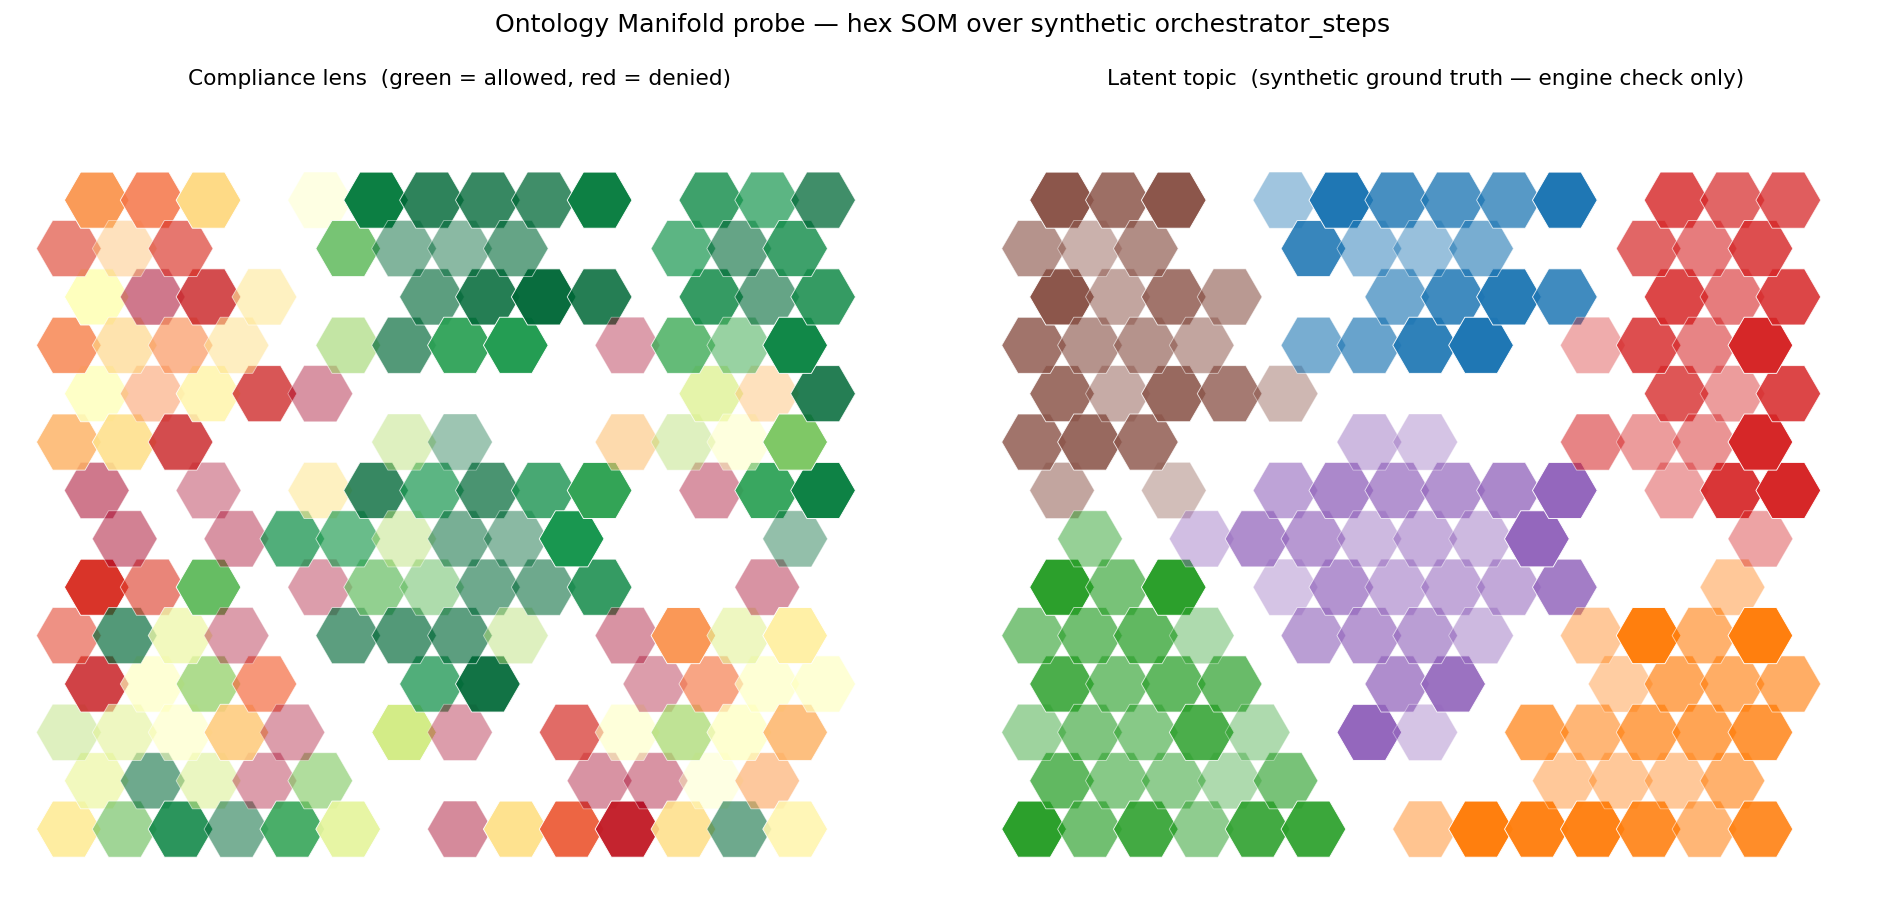
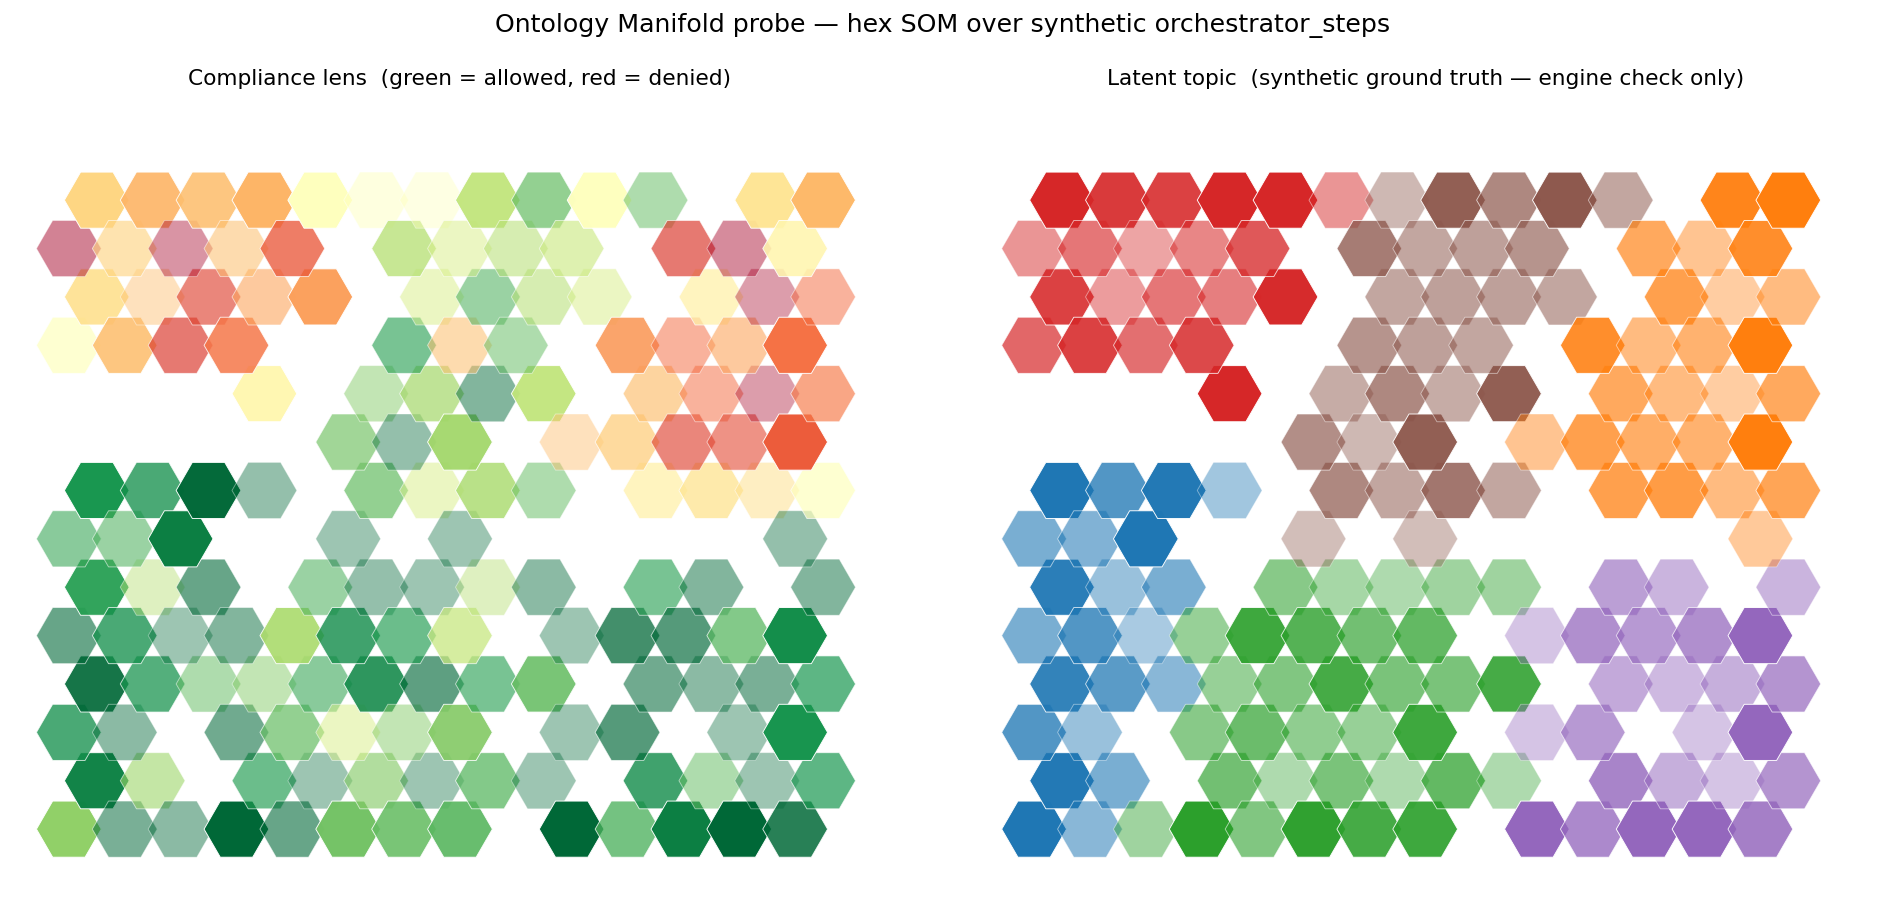
fix(manifold): emit detail panel fields for Semantic Manifold UI

diff --git a/ontology_manifold_probe.py b/ontology_manifold_probe.py
@@ -564,10 +564,15 @@ def export_manifold(df, bmu, side, path, source="synthetic", hex_px=40.0):
 
     steps = [dict(stepId=sid, cellId=cid, governanceAllowed=bool(ga),
                   agentRole=ar, workflowId=wf, modelId=mid,
-                  createdAt=pd.Timestamp(ts).isoformat())
-             for sid, cid, ga, ar, wf, mid, ts in zip(
+                  createdAt=pd.Timestamp(ts).isoformat(),
+                  inputText=it if pd.notna(it) else "",
+                  toolCalls=[{"name": t} for t in (tc if isinstance(tc, list) else [])],
+                  governanceLogs=[{"policy_name": g.get("policy_name"), "allowed": (g.get("result") == "allowed" if "result" in g else g.get("allowed", False))} for g in (gl if isinstance(gl, list) else [])]
+                  )
+             for sid, cid, ga, ar, wf, mid, ts, it, tc, gl in zip(
                  d["step_id"], d["_cell"], d["governance_allowed"], d["agent_role"],
-                 d["workflow_id"], d["model_id"], d["created_at"])]
+                 d["workflow_id"], d["model_id"], d["created_at"],
+                 d.get("input_text", [None]*len(d)), d.get("tool_calls", [None]*len(d)), d.get("governance_logs", [None]*len(d)))]
 
     edges = []
     if "parent_decision_id" in d:

diff --git a/src/aml/cloud/manifold.py b/src/aml/cloud/manifold.py
@@ -177,8 +177,8 @@ def serialize_manifold(df: pd.DataFrame, bmu: np.ndarray, side: int, source: str
             modelId=row["model_id"] if pd.notna(row["model_id"]) else "unknown",
             createdAt=pd.Timestamp(row["created_at"]).isoformat(),
             inputText=row.get("input_text", "") or "",
-            toolCalls=row.get("tool_calls", []) or [],
-            governanceLogs=row.get("governance_logs", []) or []
+            toolCalls=[{"name": t} for t in (row.get("tool_calls", []) or [])],
+            governanceLogs=[{"policy_name": g.get("policy_name"), "allowed": (g.get("result") == "allowed" if "result" in g else g.get("allowed", False))} for g in (row.get("governance_logs", []) or [])]
         ))
 
     edges = []